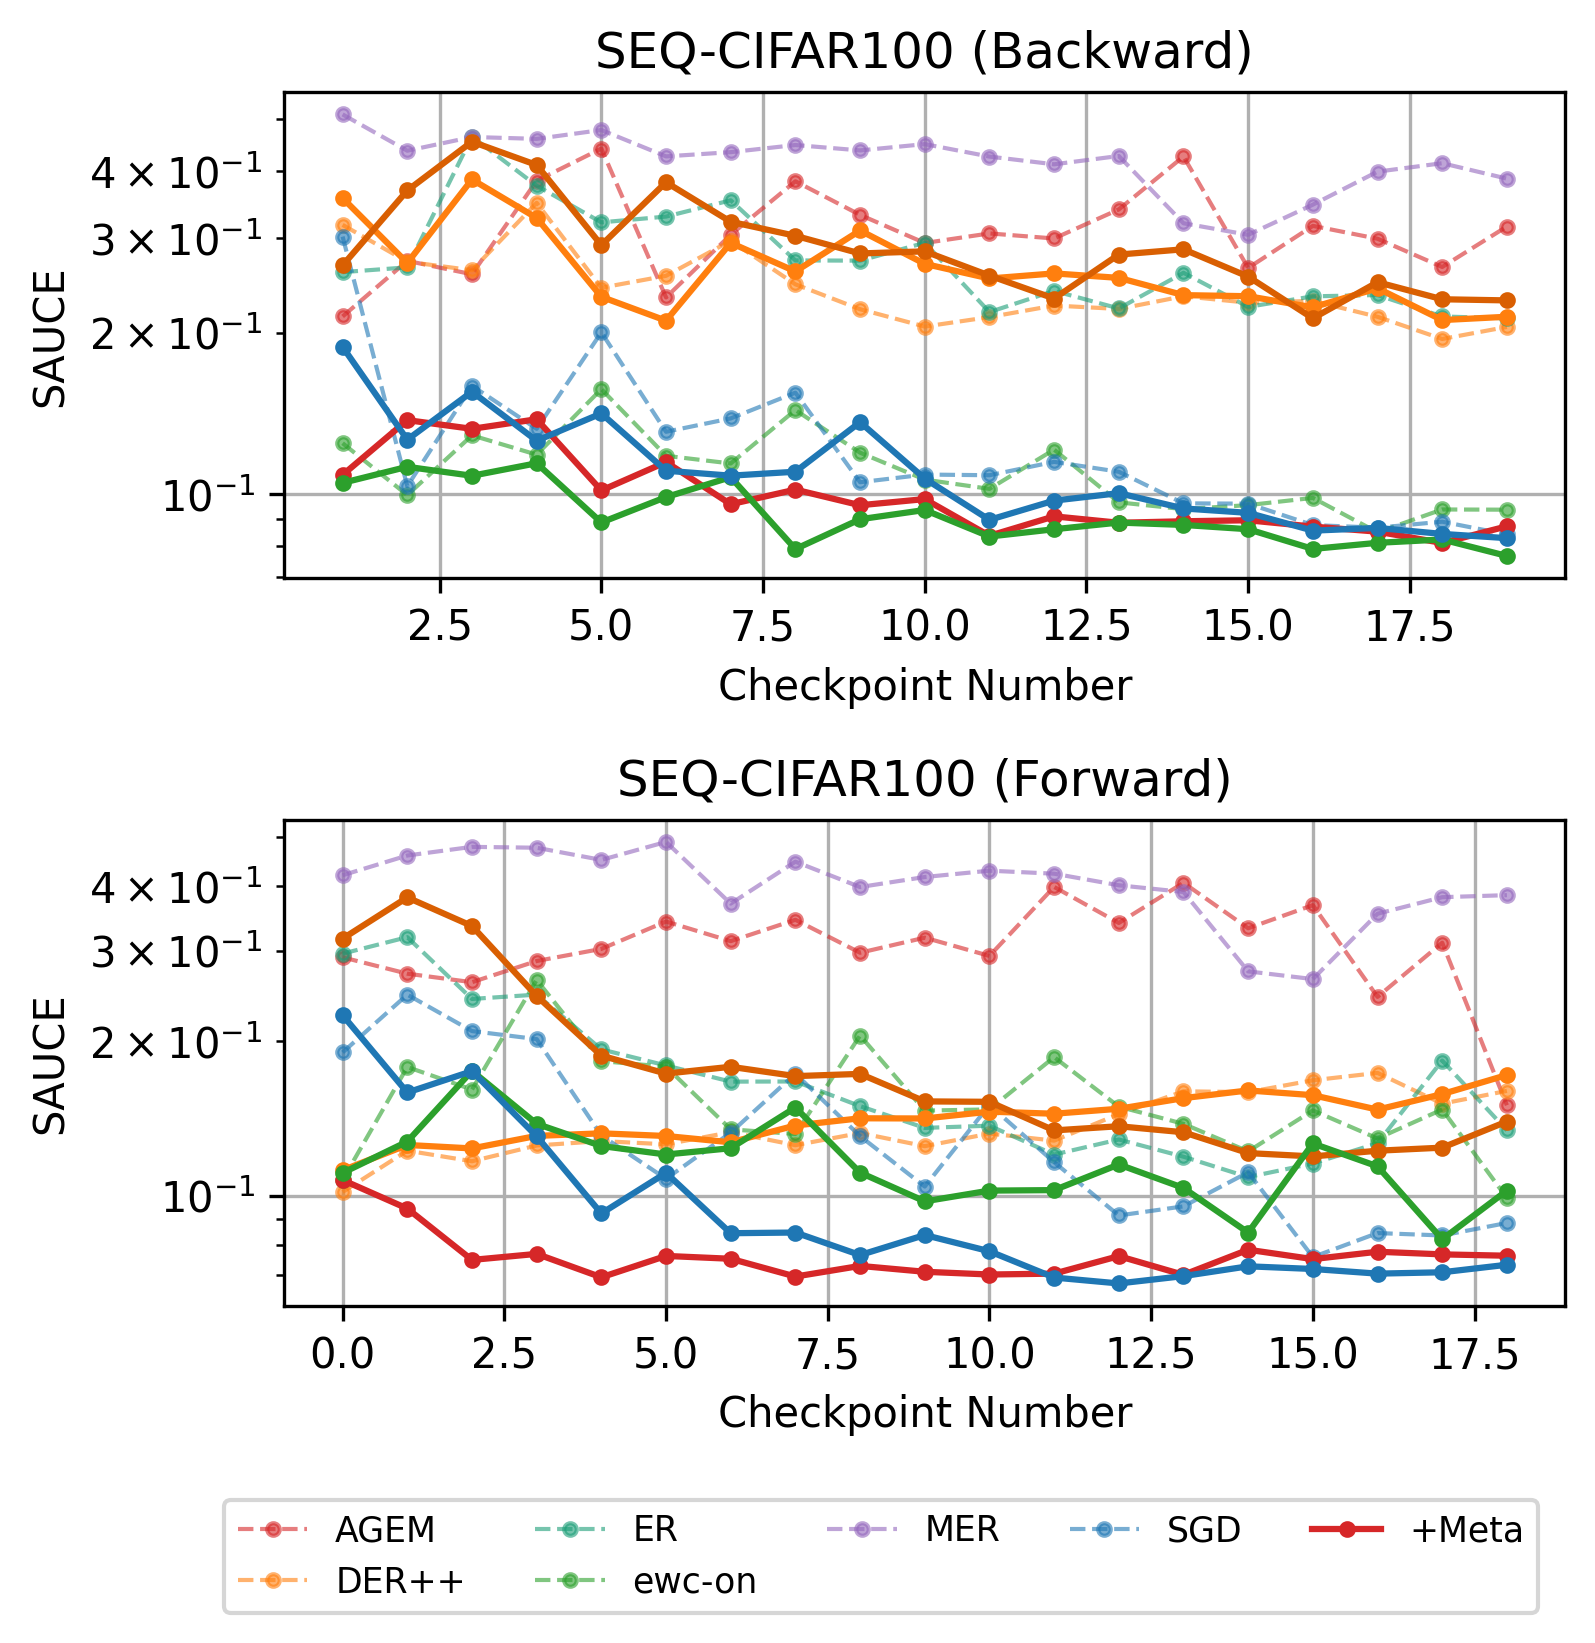
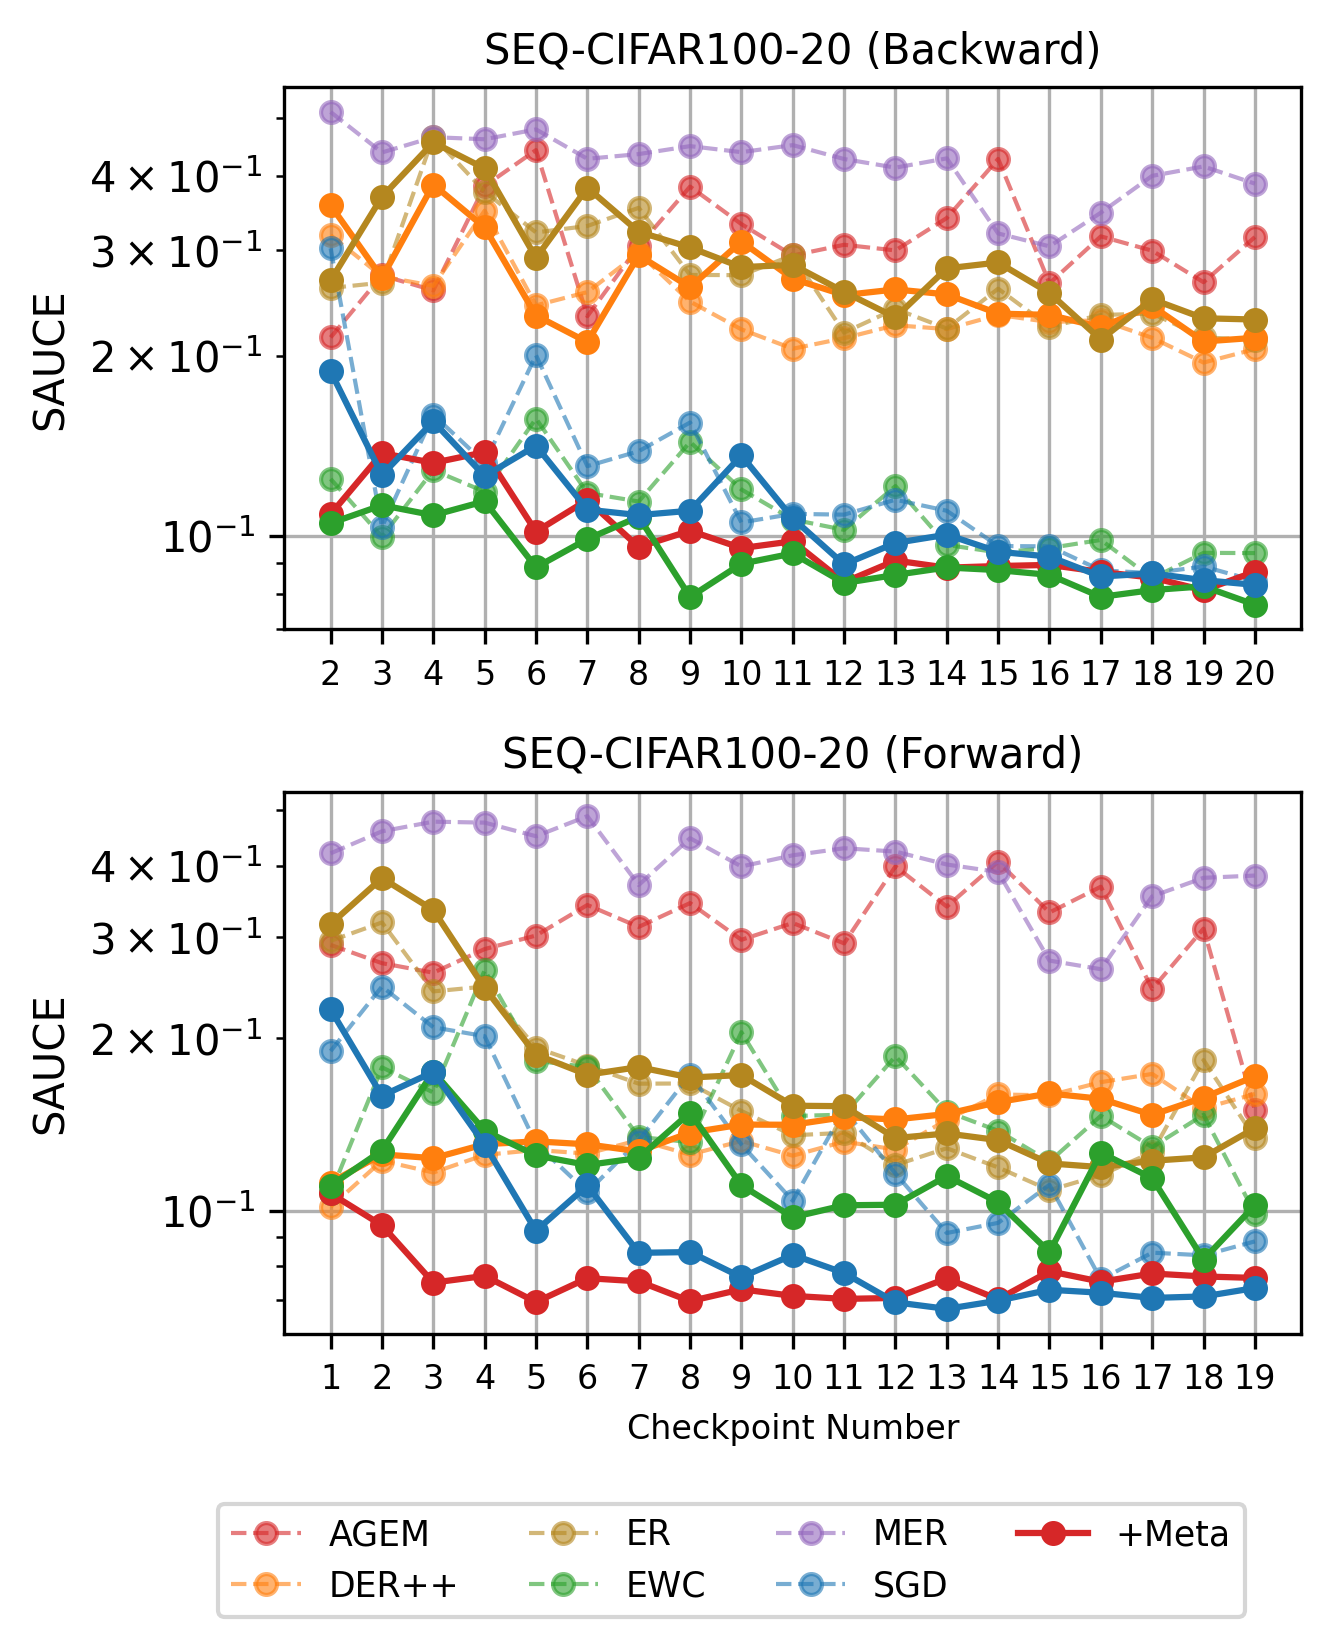
pretty sauce plots

diff --git a/results_for_paper.py b/results_for_paper.py
@@ -1004,7 +1004,7 @@ def plot_sauce(
     # Create figure with 2 rows (backward, forward) and one column
     nrows = 2
     ncols = 1
-    fig, axes = plt.subplots(nrows, ncols, figsize=(6, 5), squeeze=False)
+    fig, axes = plt.subplots(nrows, ncols, figsize=(5, 5), squeeze=False)
     
     dataset_name = get_dataset_name(dataset, include_20task)
     row_titles = [f'{dataset_name} (Backward)', f'{dataset_name} (Forward)'] 
@@ -1042,13 +1042,19 @@ def plot_sauce(
             linestyle = '-' if not with_meta or method.startswith('meta') else '--'  
             alpha = 1.0 if not with_meta or method.startswith('meta') else 0.6         
             line, = ax.plot(plot_data['checkpoint_num'], plot_data['SAUCE'], 
-                            marker='o',markersize=3, label=get_method_label(method), color=color,
+                            marker='o',markersize=5, label=get_method_label(method), color=color,
                             linewidth=linewidth, linestyle=linestyle, alpha=alpha)
             all_handles.append(line)
             all_labels.append(get_method_label(method))
-        
+            
+            num_checkpoints = plot_data['checkpoint_num'].nunique()
+            if direction == 'forward':
+                ax.set_xticks(ticks=range(num_checkpoints), labels=range(1,num_checkpoints+1), fontsize=8)
+                ax.set_xlabel('Checkpoint Number', fontsize=8)
+            else:
+                ax.set_xticks(ticks=range(1, num_checkpoints+1), labels=range(2, num_checkpoints+2), fontsize=8)
+    
         ax.set_title(row_title, fontsize=10)
-        ax.set_xlabel('Checkpoint Number')
         ax.set_ylabel('SAUCE')
         ax.grid(True)
         ax.set_yscale('log')
@@ -1065,7 +1071,7 @@ def plot_sauce(
     
     if unique_pairs:
         handles, labels = zip(*unique_pairs)
-        fig.legend(handles, labels, loc='lower center', ncols=5,
+        fig.legend(handles, labels, loc='lower center', ncols=4,
                    bbox_to_anchor=(0.5, -0.1), fontsize='small')
                 #    title='Method', title_fontsize='small')
     
